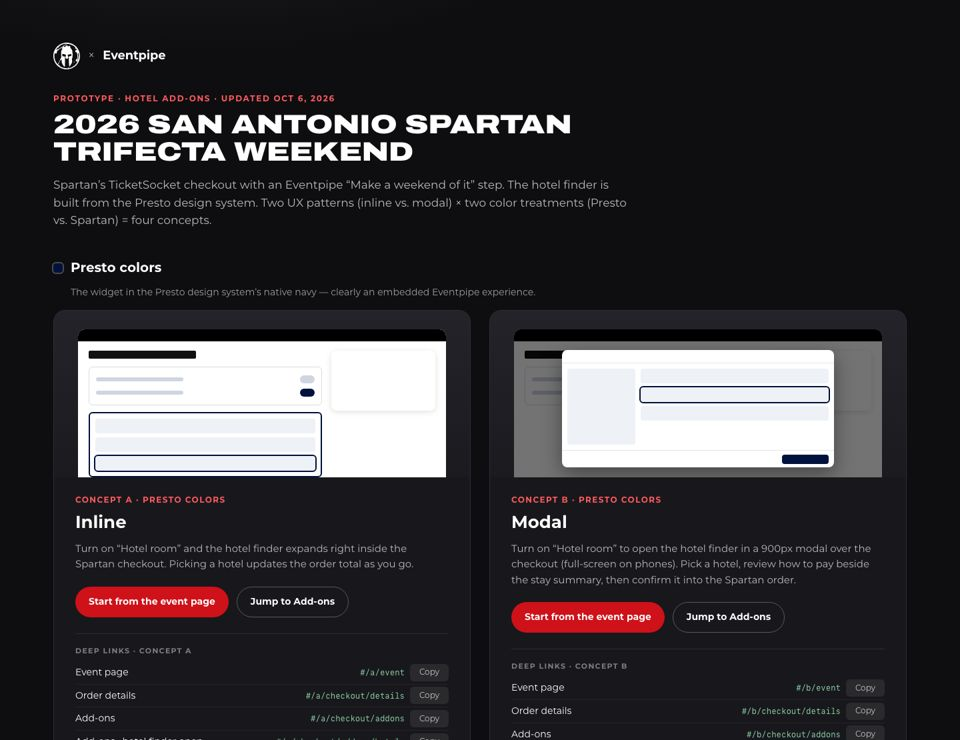
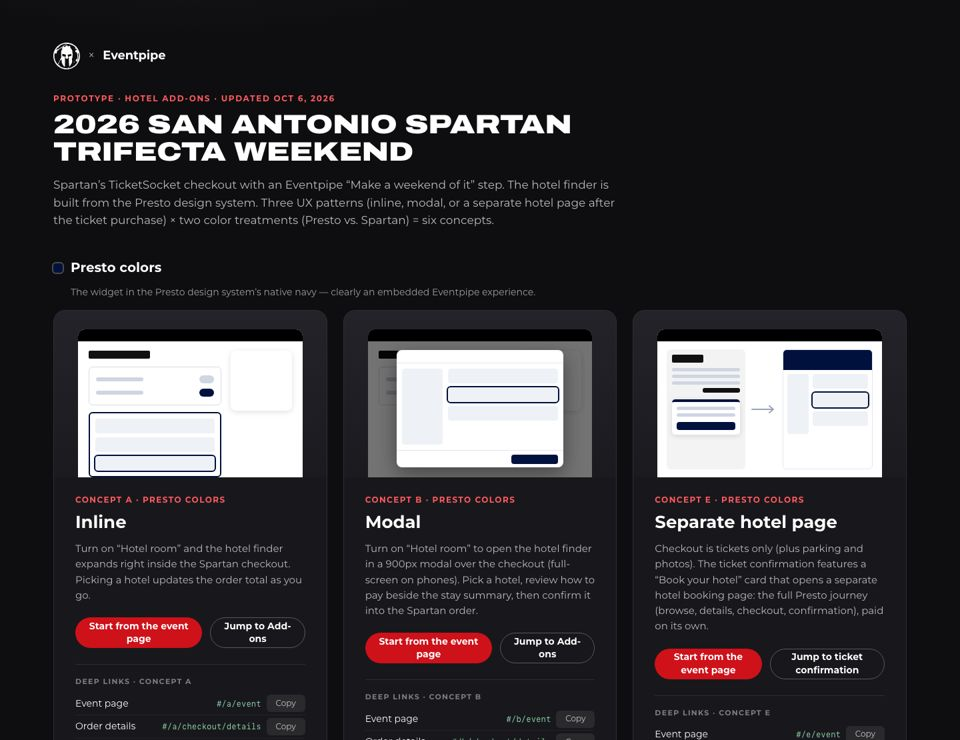
docs(widgets): concepts E/F in Storybook + READMEs
- R&D Overview: six concepts (E/F cards with screenshots and Ticket
  confirmation / Hotel booking page links), learning #6 (during vs. after
  checkout), separate-page row in the embed table, open question, Oct 6
  changelog entry, refreshed hub capture.
- Introduction sidebar-map row: A–F.
- README + prototype README: concept matrix with the separate-page column,
  routes, changelog. Prototype hub changelog: E/F entry.

diff --git a/spartanRace-ticketsocket-ep-demo-v1/src/views/HomeMenu.vue b/spartanRace-ticketsocket-ep-demo-v1/src/views/HomeMenu.vue
@@ -162,6 +162,7 @@ function start (c, jump = false) {
       <div class="hm__logentry">
         <p class="hm__logdate">Oct 6, 2026</p>
         <ul>
+          <li>Concepts E and F: the hotel booked on a separate page after the ticket purchase, linked from the ticket confirmation.</li>
           <li>Itemized order summary: tickets, add-ons and the hotel stay broken out line by line, with the Total at the bottom.</li>
           <li>Confirmation page after Pay: Spartan logo centered, Manage booking, full hotel details plus the race order.</li>
           <li>Auto-fill forms toggle and Fill form button in the prototype bar.</li>

diff --git a/spartanRace-ticketsocket-ep-demo-v1/README.md b/spartanRace-ticketsocket-ep-demo-v1/README.md
@@ -27,13 +27,13 @@ npm run build      # → dist/ (relative base, runs from any sub-path)
 
 ## Concepts
 
-`#/` is the prototype hub. Every screen is deep-linkable per concept as `#/<a|b|c|d>/<route>`.
+`#/` is the prototype hub. Every screen is deep-linkable per concept as `#/<a…f>/<route>`.
 The prototype banner switches concepts while keeping you on the same screen.
 
-| | Inline: the finder expands inside the step | Modal: 900px `DsModal`, full-screen on phones |
-| --- | --- | --- |
-| **Presto colors** (native navy) | **A** · `#/a/…` | **B** · `#/b/…` |
-| **Spartan colors** (host red/black, neutral grays, black text) | **C** · `#/c/…` | **D** · `#/d/…` |
+| | Inline: the finder expands inside the step | Modal: 900px `DsModal`, full-screen on phones | Separate page: hotel booked after the tickets |
+| --- | --- | --- | --- |
+| **Presto colors** (native navy) | **A** · `#/a/…` | **B** · `#/b/…` | **E** · `#/e/…` |
+| **Spartan colors** (host red/black, neutral grays, black text) | **C** · `#/c/…` | **D** · `#/d/…` | **F** · `#/f/…` |
 
 - **Modal concepts (B, D):** picking a hotel opens a **Review your stay** step. How to pay and
   Confirm sit on the left, the hotel order summary on the right, and "Powered by Eventpipe"
@@ -55,6 +55,8 @@ The prototype banner switches concepts while keeping you on the same screen.
 | `checkout/extras` | Race for a Cause (givestar) + refundable booking | 4.24.10 |
 | `checkout/your-details` | **New · Eventpipe:** library checkout steps 1–4 (contact, payment method, review your reservation, policies). No order rail and no Book Now; Continue goes to Payment | Checkout Experience Expanded |
 | `checkout/payment` | Sezzle / card (Stripe Link) / Flex + terms → **Pay**, with a Hotel reservation block | 4.24.21 |
+| `checkout/order-confirmed` | **E/F:** Spartan ticket receipt + "Make a weekend of it" hotel card → Find a hotel | (new) |
+| `hotels` | **E/F:** separate hotel booking page under the Spartan bar: full Presto journey (browse, details, checkout, confirmation), paid on its own | Booking site |
 | `checkout/confirmed` | **New · Eventpipe:** confirmation (library Single Reservation) with the hotel stay + race order; Spartan logo centered, Manage booking | Confirmation story |
 
 **Pay** shows a processing state, then the confirmation. No real order is placed. A reload restarts the add-ons
@@ -84,6 +86,10 @@ sketch. The map needs `VITE_GOOGLE_MAPS_API_KEY` (repo-root `.env` locally, the
 ## Changelog
 
 **Oct 6, 2026**
+- Concepts **E/F**: tickets-only checkout (Add-ons = parking + photo), Pay → ticket receipt with a
+  hotel card → separate hotel page (`StayJourney.vue`: browse with HotelBrowser `layout="page"` +
+  `HotelCardGroup`, `HotelDetailPage`, `CheckoutPageExpanded`, hotel-only `ConfirmationPage`).
+  Shared helpers: `presto/cart.js`, `presto/fillDom.js`.
 - Itemized order summary (Tickets → Add-ons → *Hotel & weekend add-ons by Eventpipe*, with the
   hotel fully itemized → Subtotal → fees → Total at the bottom). It pins by its bottom edge when tall.
 - Confirmation step after Pay (`checkout/confirmed`): black bar with the Spartan logo centered and

diff --git a/README.md b/README.md
@@ -61,13 +61,16 @@ case study is the 2026 San Antonio Spartan Trifecta Weekend, sold on TicketSocke
   Presto library. It adds an **Add-ons** step (parking, photo package, hotel finder
   with filters / map / details / order summary) and a **Your Details** step
   (checkout steps 1–4) to the checkout.
+- **Separate page (E/F):** tickets only in the checkout; the ticket confirmation links to a
+  separate hotel booking page with the full Presto journey (browse → details → checkout →
+  confirmation), paid on its own.
 
-Four concepts, deep-linked as `#/a/…` to `#/d/…`:
+Six concepts, deep-linked as `#/a/…` to `#/f/…`:
 
-| | Inline | Modal (900px) |
-| --- | --- | --- |
-| **Presto colors** | A | B |
-| **Spartan colors** | C | D |
+| | Inline | Modal (900px) | Separate hotel page |
+| --- | --- | --- | --- |
+| **Presto colors** | A | B | E |
+| **Spartan colors** | C | D | F |
 
 Write-up: Storybook **Widgets & Embeds → R&D Overview**. Source in
 [`spartanRace-ticketsocket-ep-demo-v1/`](spartanRace-ticketsocket-ep-demo-v1/)
@@ -75,8 +78,9 @@ Write-up: Storybook **Widgets & Embeds → R&D Overview**. Source in
 
 **▶ Launch: https://epprestodesign.github.io/presto-2026/spartanRace-ticketsocket-ep-demo-v1/**
 
-**Updated Oct 6, 2026:** itemized order summary (hotel stay broken out), a confirmation page
-after Pay, and an Auto-fill forms toggle with a Fill form button. Full changelog on the Storybook
+**Updated Oct 6, 2026:** concepts E/F (hotel booked on a separate page after the ticket
+purchase, linked from the ticket confirmation), itemized order summary (hotel stay broken out),
+a confirmation page after Pay, and an Auto-fill forms toggle with a Fill form button. Full changelog on the Storybook
 R&D Overview page and in the prototype README.
 
 ```bash
